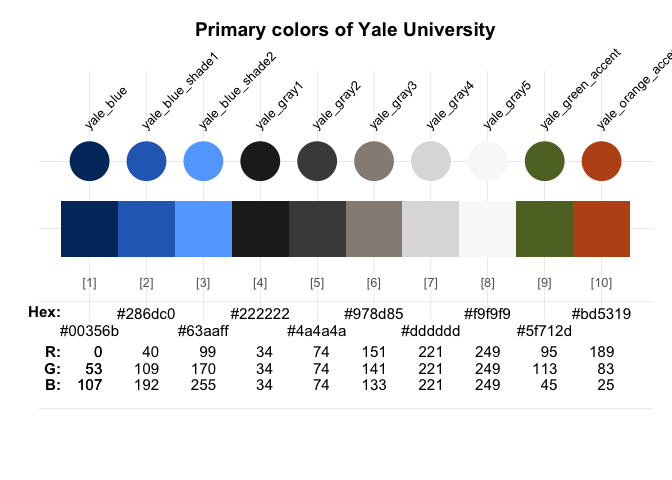
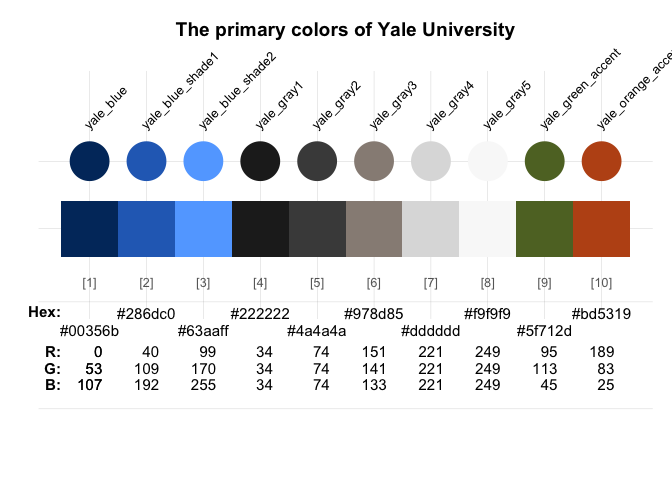
minor

Changed region(s): [[0.25, 0.0312, 0.7812, 0.0938]]

diff --git a/README.md b/README.md
@@ -74,13 +74,13 @@ Here are some examples how the color palettes from **unicol** can be
 used:
 
 ``` r
-seecol(yale_1, main = "Primary colors of Yale University")
+seecol(yale_1, main = "The primary colors of Yale University")
 ```
 
 <img src="man/figures/README-examples-1.png" width="600px" style="display: block; margin: auto;" />
 
 ``` r
-demopal(berkeley_1, type = 2, main = "Using the colors of Berkeley University")
+demopal(berkeley_1, type = 2, main = "The colors of Berkeley, University of California", seed = 3)
 ```
 
 <img src="man/figures/README-examples-2.png" width="600px" style="display: block; margin: auto;" />
